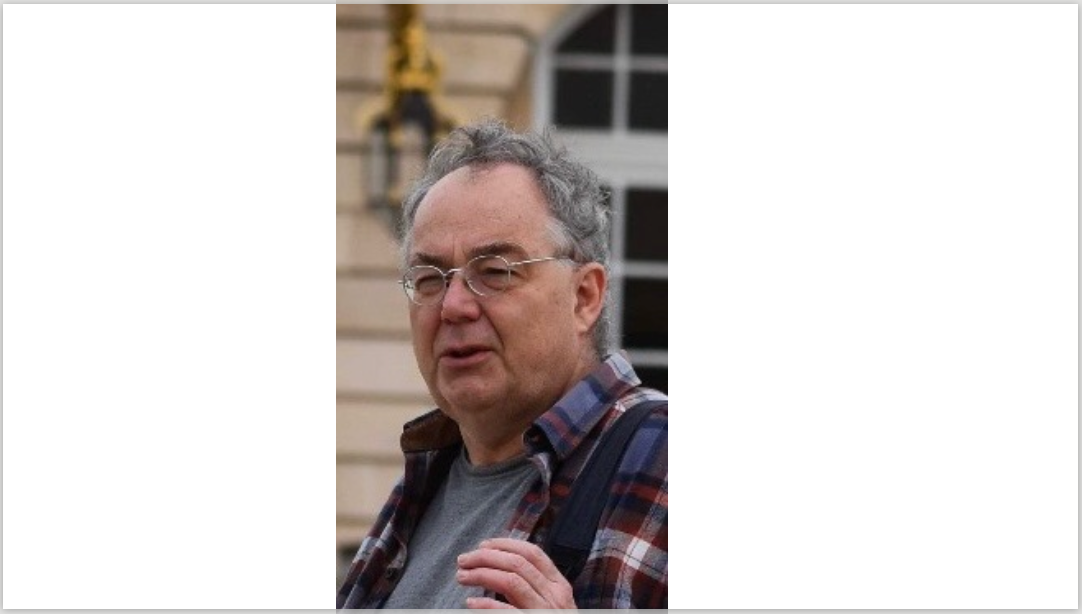
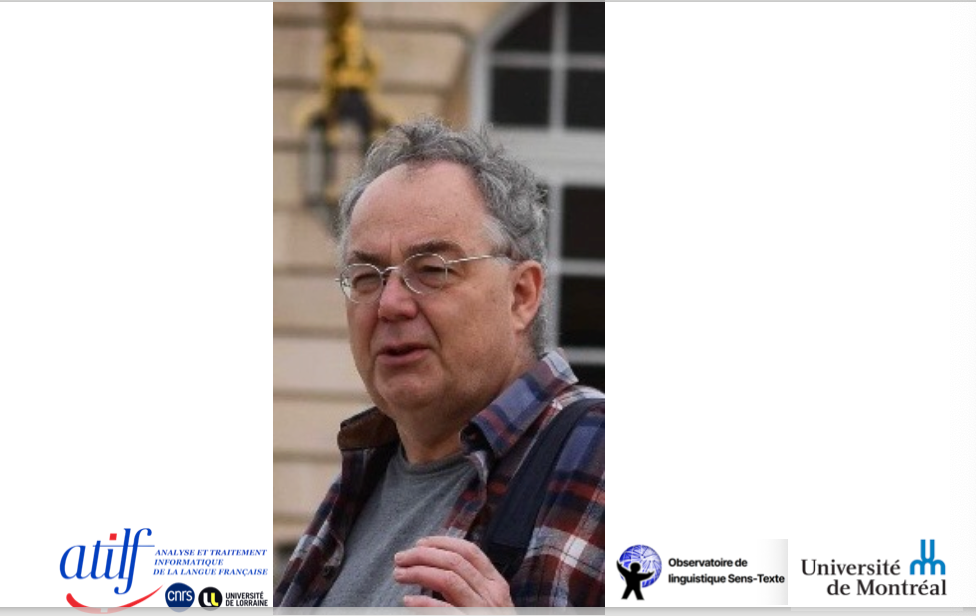
Add files via upload

Changed region(s): [[0.0, 0.0, 1.0, 1.0], [0.6148, 0.0619, 0.6455, 0.1238]]

diff --git a/index.html b/index.html
@@ -197,7 +197,7 @@
 
     Building on the 
     <a href="https://plltl2024.sciencesconf.org/" target="_blank" rel="noopener noreferrer" style="color:#fff; text-decoration:underline;">
-      9th International Conference on Pedagogical Lexicography, Teaching and Learning of L2s (PL&amp;LTL 2024) – Lexicography and Knowledge Services in the Age of CGIA
+      9th International Conference on Pedagogical Lexicography, Teaching and Learning of L2s (PL&amp;LTL 2024) – Lexicography and Knowledge Services in the Age of AIGC
     </a>, as well as the 
    International Expert Seminar Series in <a href="https://computational-lexico.github.io/seminars.html" target="_blank" rel="noopener noreferrer" style="color:#fff; text-decoration:underline;">
        Computational Lexicology and Lexicography
@@ -419,9 +419,10 @@
           <div class="row">
             <div class="col-4 col-6-medium col-12-small">
               <section class="box">
-                <a href="#" class="image featured"><img src="images/polguere.png" alt="" /></a>
+                <a href="#" class="image featured"><img src="images/polguere2.png" alt="" /></a>
                 <header>
                   <h3>Alain POLGUÈRE </br>
+                  	</br>
                   CNRS, ATILF, University of Lorraine, France.</br>
 alain.polguere@univ-lorraine.fr
 
@@ -681,7 +682,7 @@ alain.polguere@univ-lorraine.fr
 						<li>
 							<span class="date">Mar <strong>30</strong></span>
 							<h3><a href="#">Online and onsite registration</a></h3>
-							<p>March 1, 2026</p>
+							<p>March 30, 2026</p>
 						</li>
 						
 						<li>
